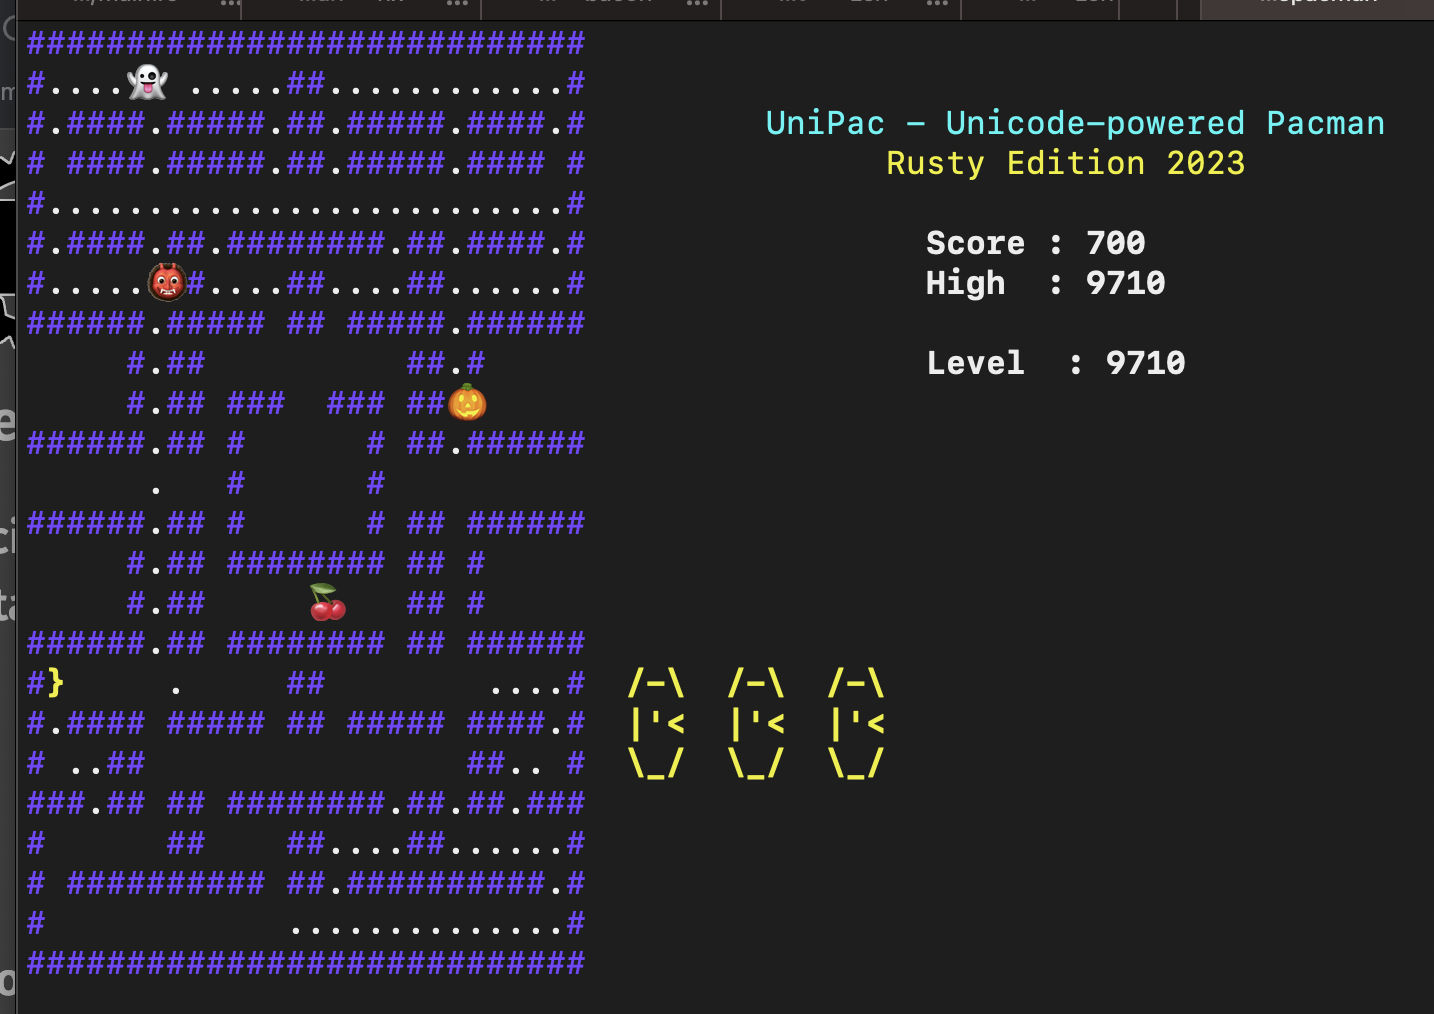
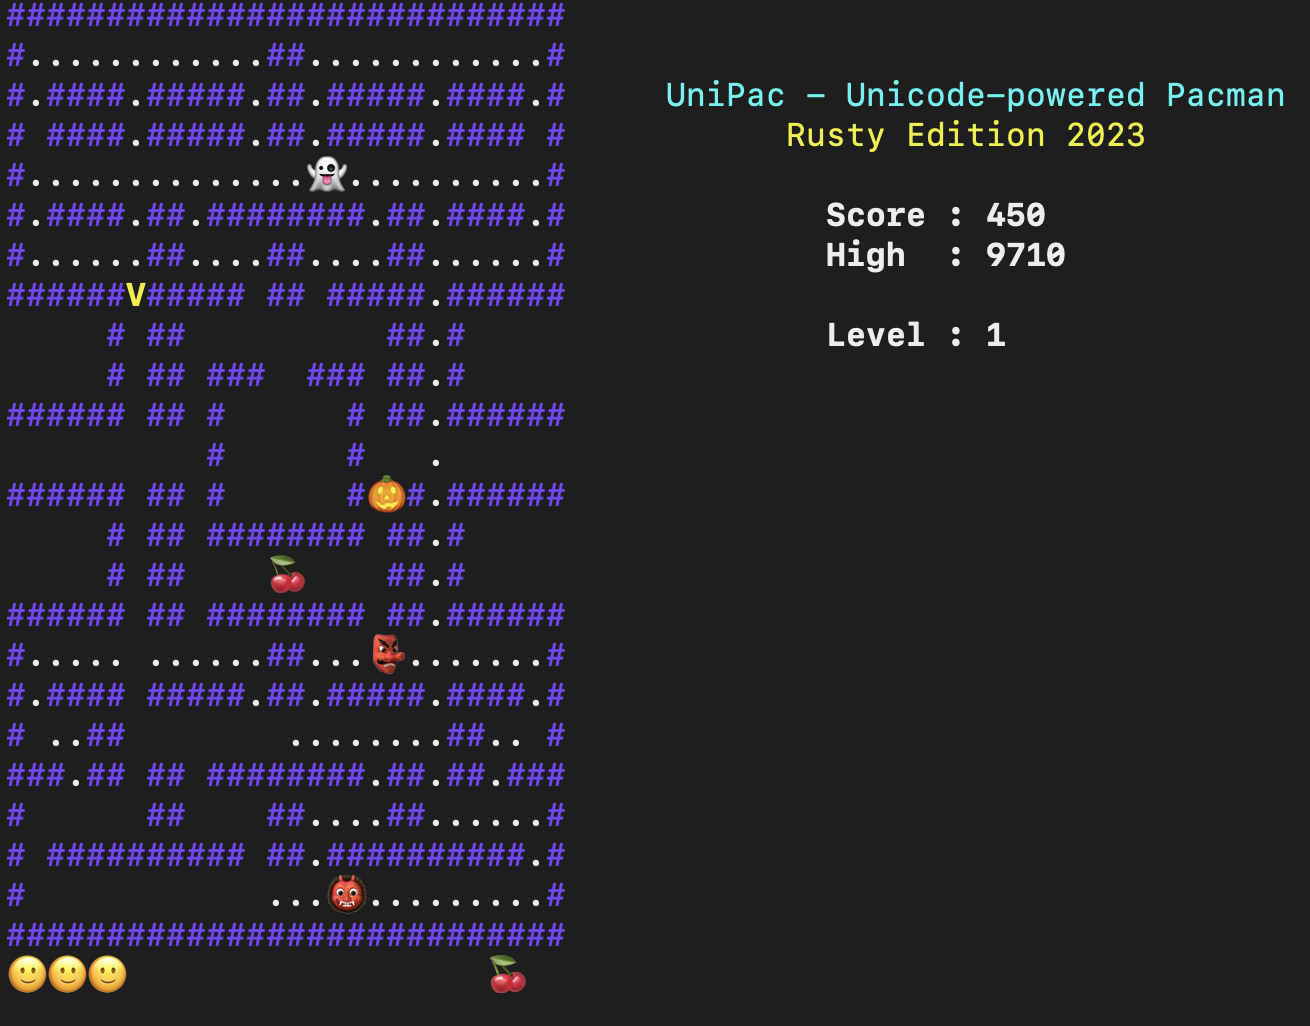
pause

diff --git a/src/main.rs b/src/main.rs
@@ -605,6 +605,31 @@ fn another_game() -> bool {
     }
 }
 
+fn pause() -> bool {
+    // let s1 = "Paused";
+    // let s2 = "space";
+
+    // crossterm::queue!(
+    //     stdout(),
+    //     cursor::MoveTo(centered_x(s1), 12),
+    //     style::PrintStyledContent(s1.red()),
+    //     cursor::MoveTo(centered_x(s2), 14),
+    //     style::PrintStyledContent(s2.red()),
+    // )
+    // .ok();
+    // stdout().flush().ok();
+
+    loop {
+        match read() {
+            Ok(Event::Key(KeyEvent {
+                code: KeyCode::Char(' '),
+                ..
+            })) => return true,
+            _ => (),
+        }
+    }
+}
+
 fn render_game_info() {
     let s1: &str = "UniPac - Unicode-powered Pacman";
     let s2 = "Rusty Edition 2023 ";
@@ -843,6 +868,13 @@ fn game_loop(game: &mut Game) -> GameState {
                     code: KeyCode::Down,
                     ..
                 })) => Direction::Down,
+                Ok(Event::Key(KeyEvent {
+                    code: KeyCode::Char(' '),
+                    ..
+                })) => {
+                    pause();
+                    game.player.last_input_direction
+                }
                 _ => game.player.last_input_direction,
             };
         }
